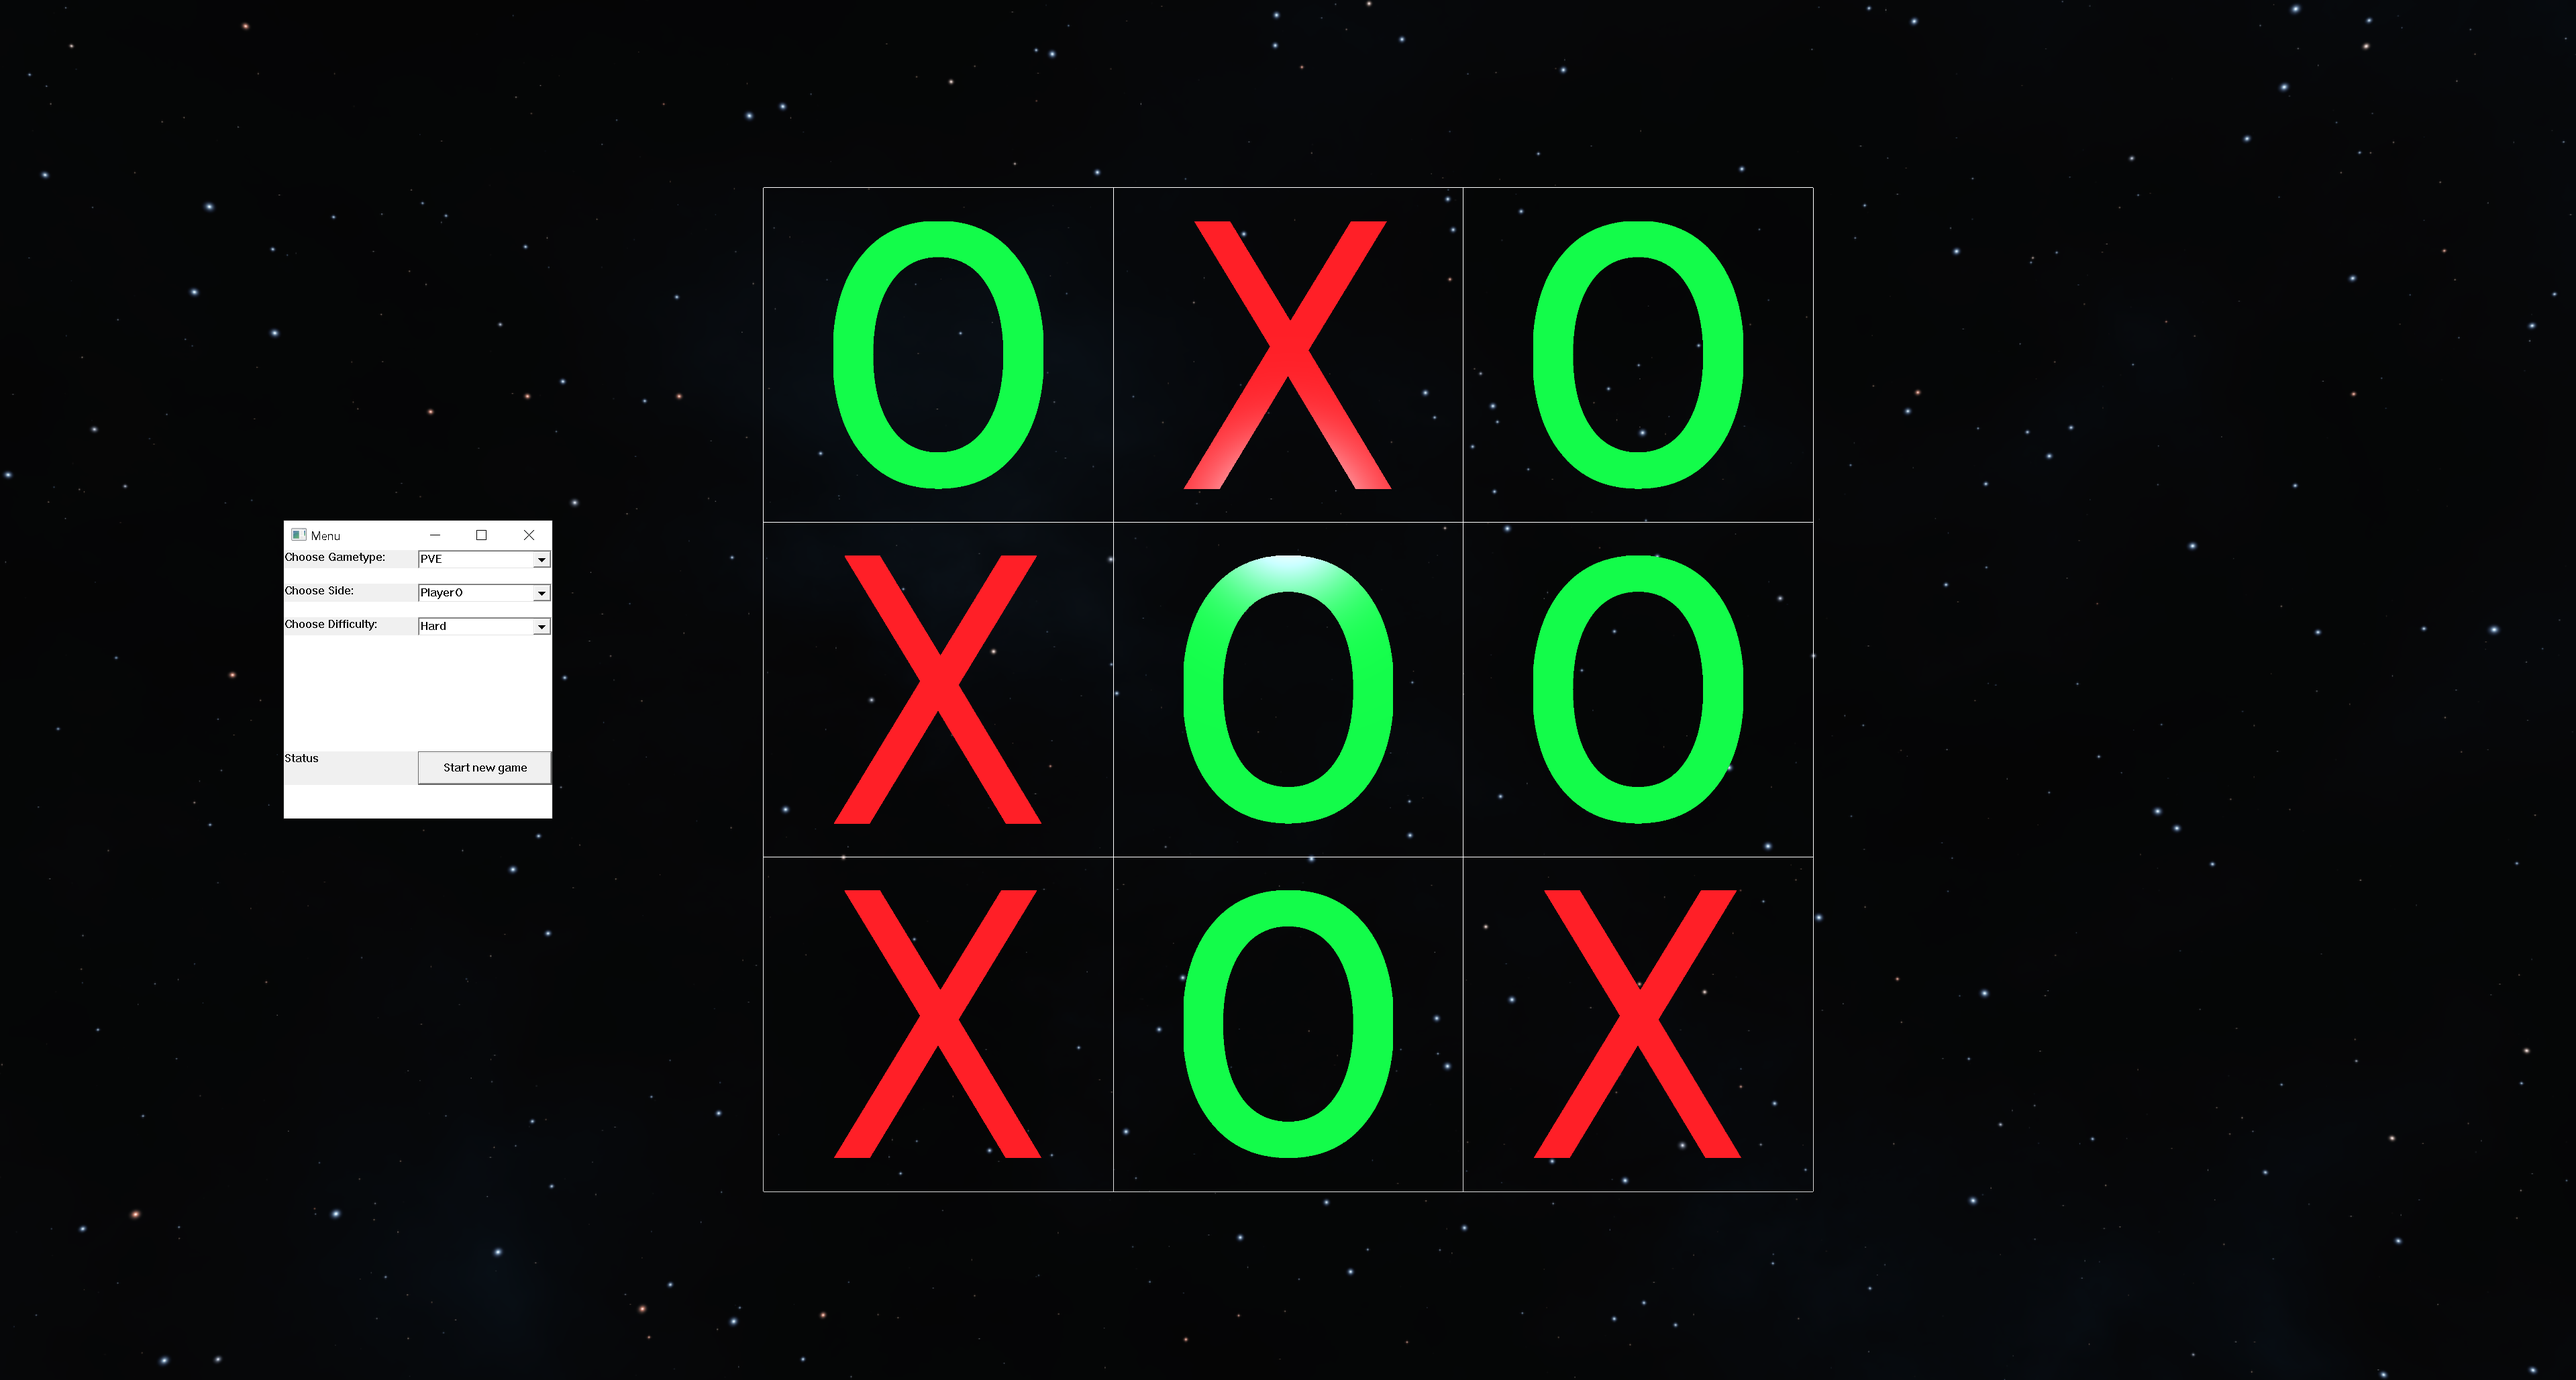
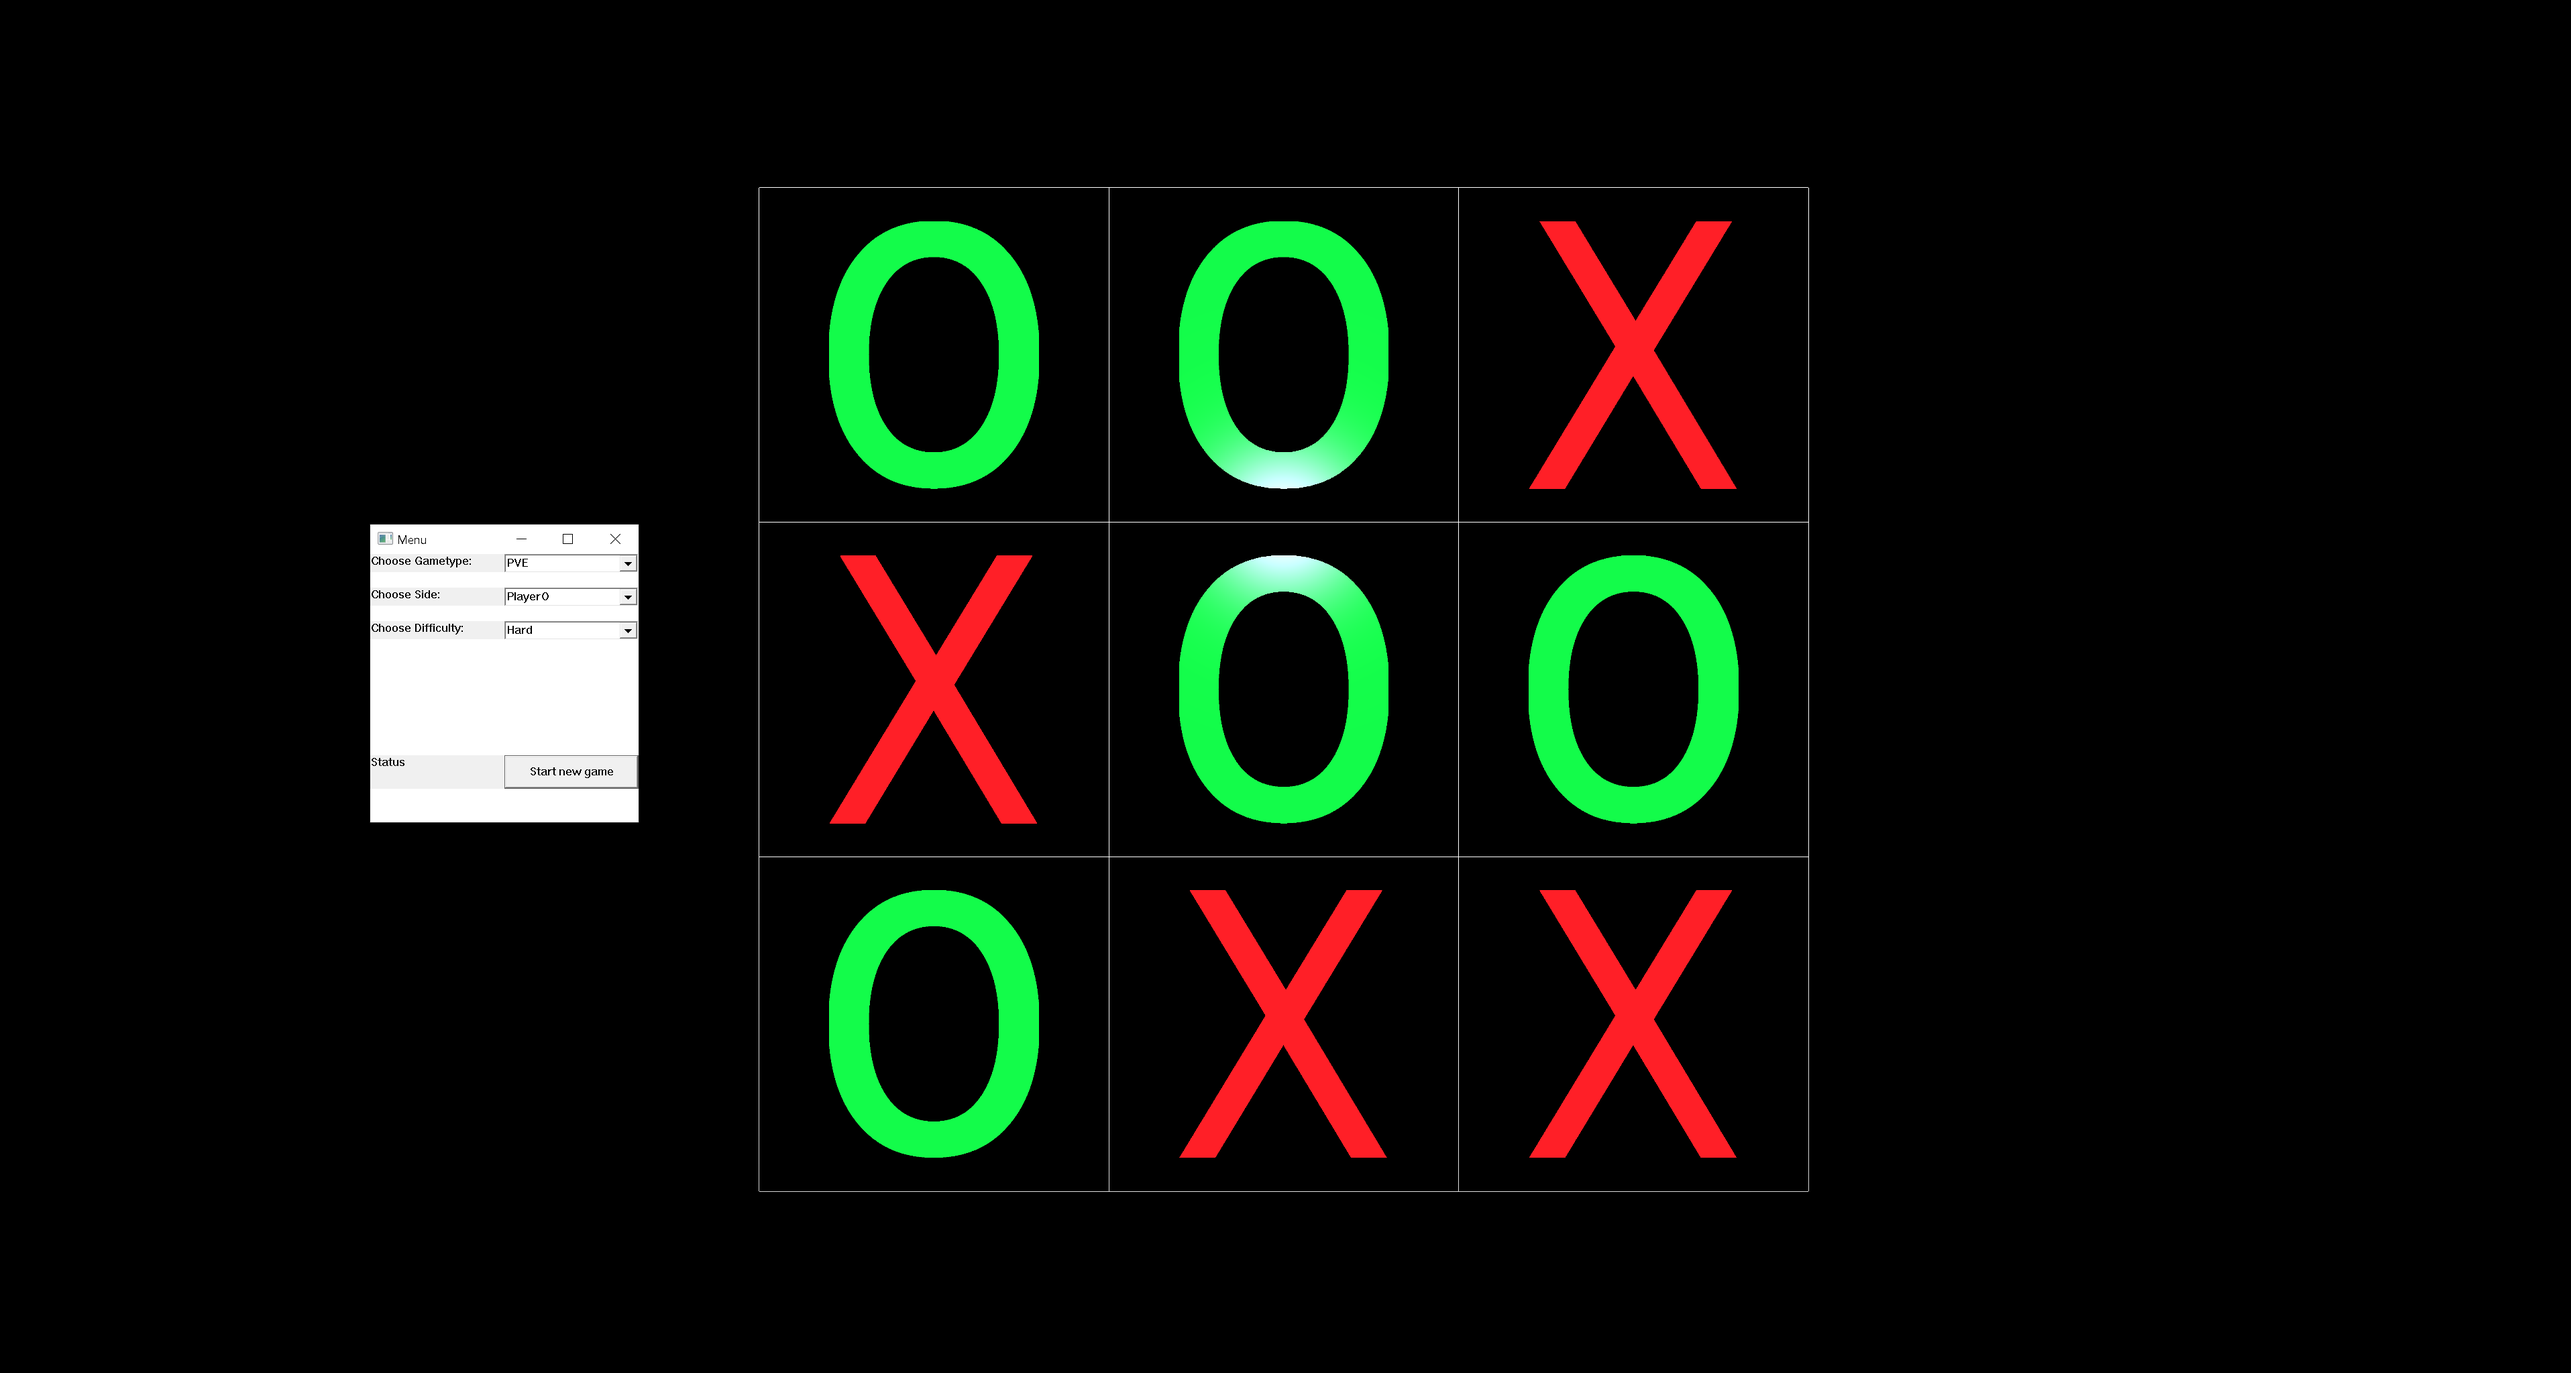
-Updated Image

diff --git a/TicTacToe/TicScene.cpp b/TicTacToe/TicScene.cpp
@@ -95,9 +95,9 @@ void TicScene::OnRender()
 	glm::mat4 skyboxView = glm::mat3(view);//removing translation vector for skybox
 	glm::mat4 skyBoxVP = project * skyboxView;
 		
-	skyboxShader->Use();
-	skyboxShader->BindMat4("MVP", skyBoxVP);
-	skybox.Draw(skyboxShader);
+	//skyboxShader->Use();
+	//skyboxShader->BindMat4("MVP", skyBoxVP);
+	//skybox.Draw(skyboxShader);
 	primitiveTextureShader->Use();
 	primitiveTextureShader->BindVec3("camPos", camera.GetPosition());
 	primitiveMaterialShader->Use();
